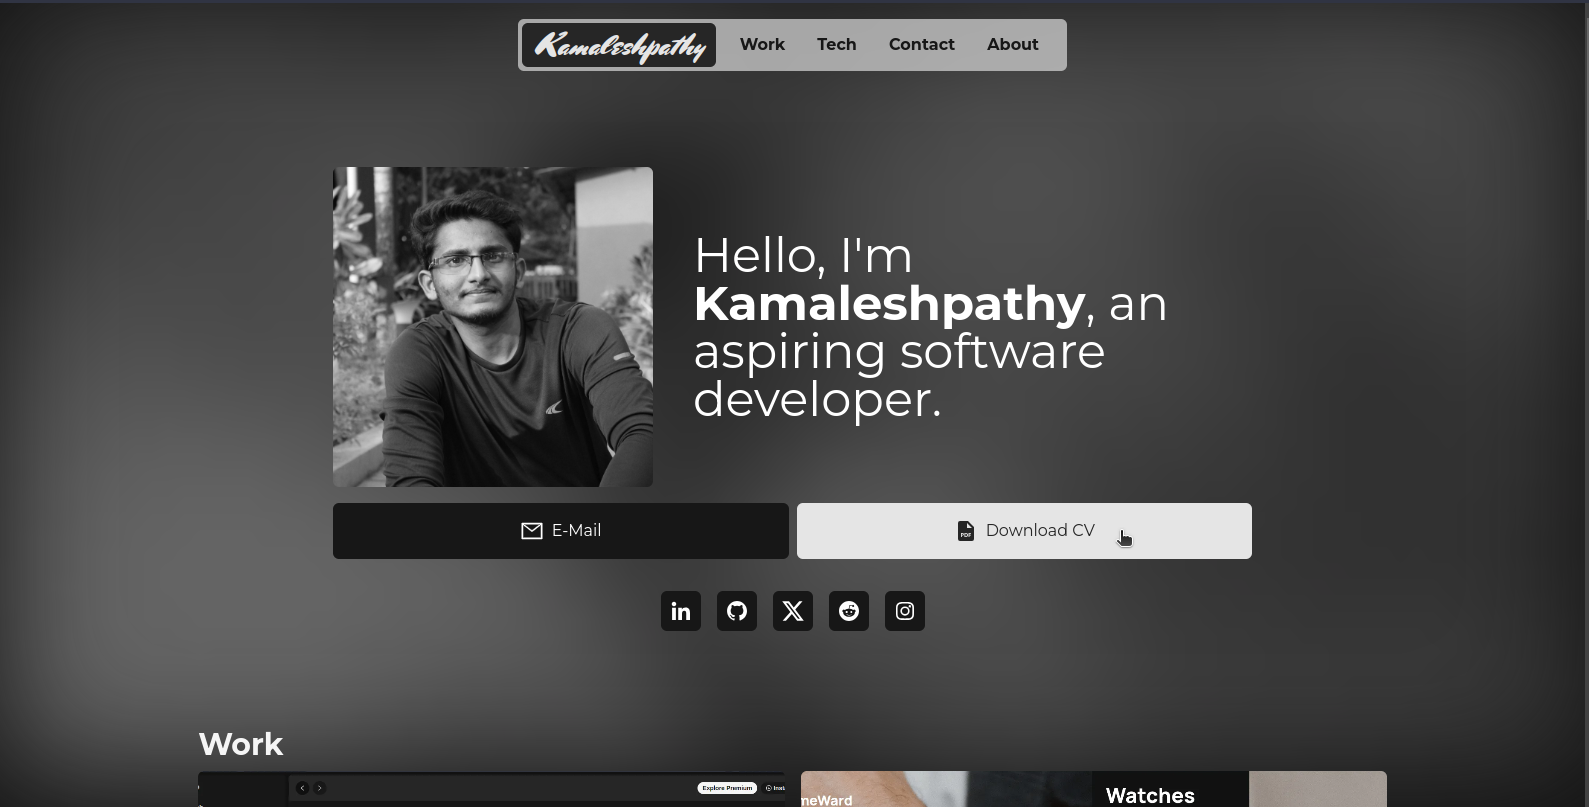
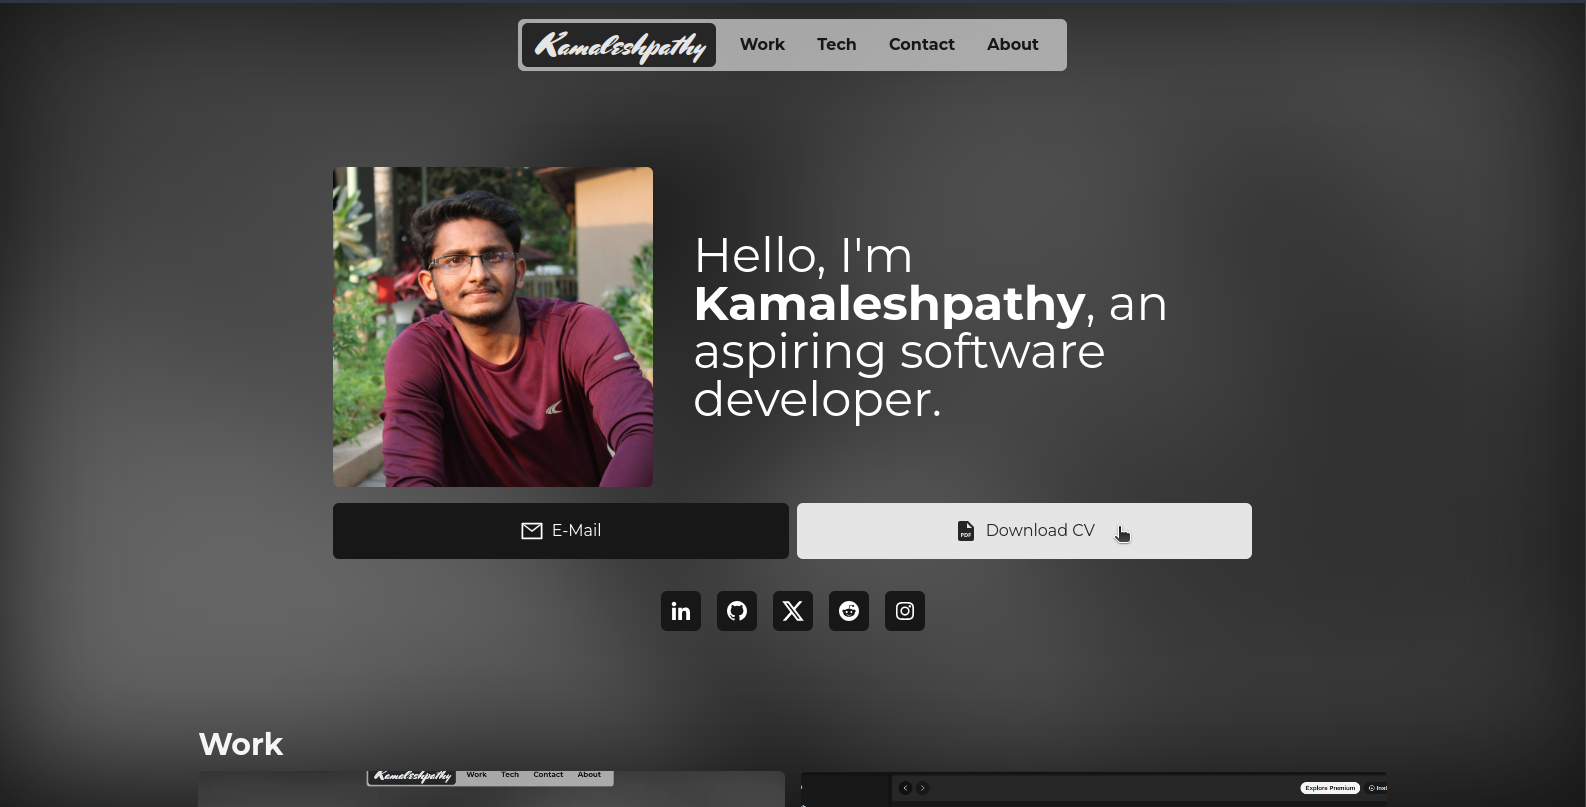
No grayscale image on hero section

diff --git a/components/Hero/index.tsx b/components/Hero/index.tsx
@@ -36,7 +36,7 @@ const Hero = () => {
       <div className='flex flex-col justify-center items-center gap-4'>
         <div className='flex gap-2 md:gap-4 xl:gap                      -10 flex-col w-3/4 sm:w-1/2 md:w-3/4 xl:w-3/5 items-center bg-neutral-800/80 md:bg-transparent backdrop-blur-sm md:backdrop-blur-none p-4 rounded-md border-t border-neutral-500/70 border-l md:border-none'>
           <div className='flex flex-col md:flex-row gap-2 md:gap-4 xl:gap-10 justify-center items-center'>
-            <Image src={profileImg} alt='kamaleshpathy posing near a dam' className='w-full md:w-48 lg:w-72 xl:w-auto max-w-[20rem] rounded-md aspect-square object-cover grayscale hover:grayscale-0 transition' />
+            <Image src={profileImg} alt='kamaleshpathy posing near a dam' className='w-full md:w-48 lg:w-72 xl:w-auto max-w-[20rem] rounded-md aspect-square object-cover transition' />
             <span className='text-xl md:text-4xl lg:text-5xl text-center md:text-left xl:h-full'>
               Hello, I&apos;m <span className='font-bold'>Kamaleshpathy</span>, an aspiring software developer.
             </span>
